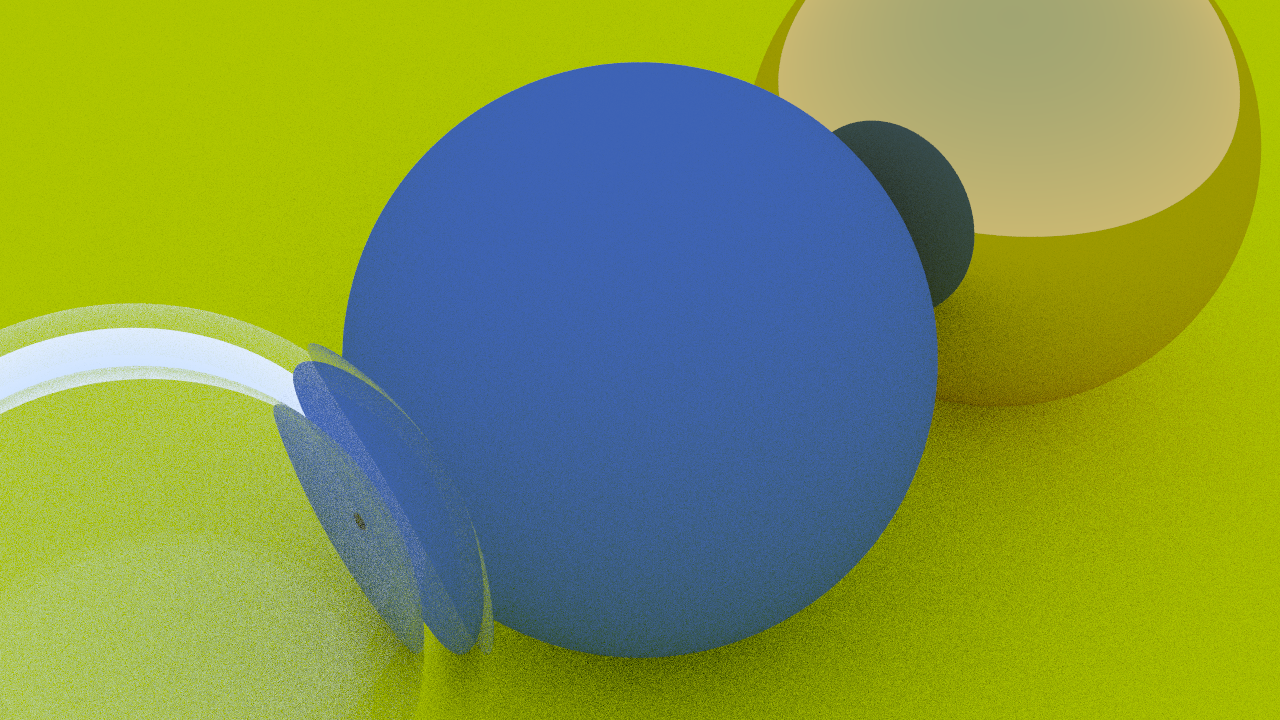
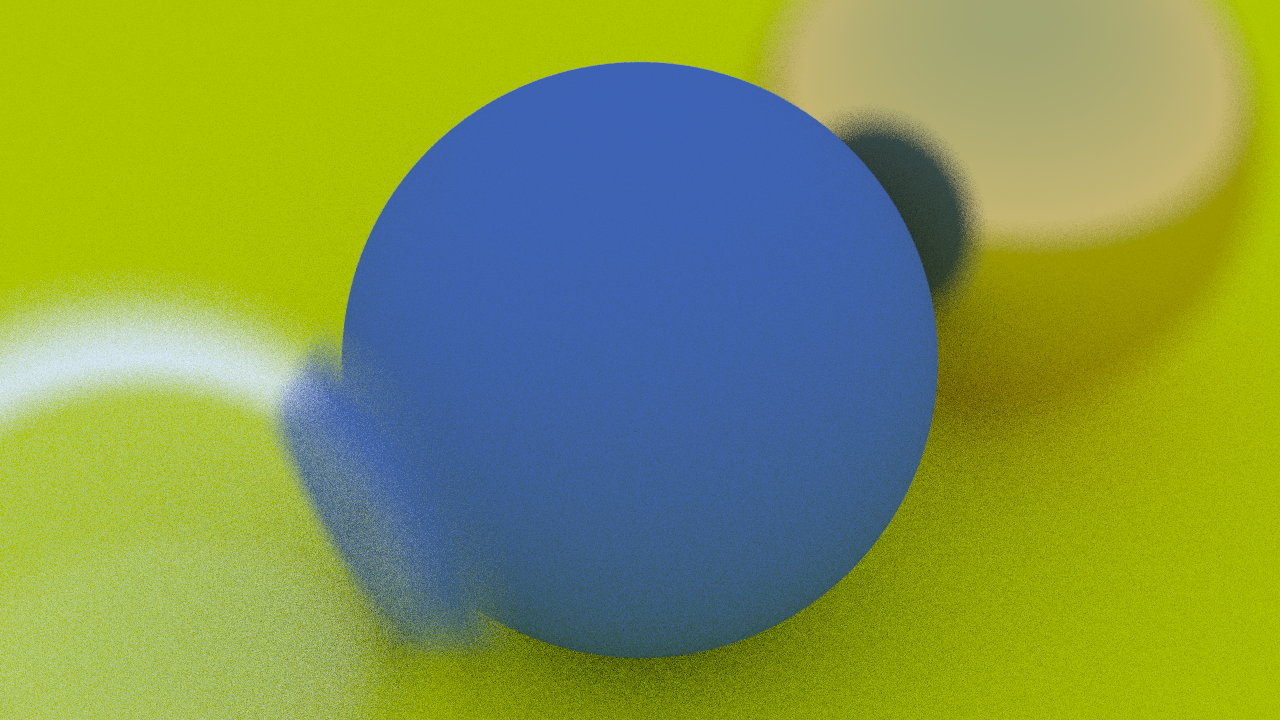
Added depth of field

diff --git a/Camera.h b/Camera.h
@@ -18,6 +18,9 @@ public:
 	Point3 lookat = Point3(0, 0, 0);		// Point camera is looking at
 	Vec3   vup = Vec3(0, 1, 0);				// Camera-relative "up" direction
 
+	double defocusAngle = 0;				// Variation angle of rays through each pixel
+	double focusDist = 10;					// Distance from camera lookfrom point to plane of perfect focus
+
 	Camera(shared_ptr<Texture> _outputTexture) : outputTexture(_outputTexture) { }
 
 	void Render(const Hittable& world) {
@@ -63,7 +66,9 @@ private:
 	Point3 pixelTopLeft;
 	Vec3   pixelDeltaU;
 	Vec3   pixelDeltaV;
-	Vec3   u, v, w;        // Camera frame basis vectors
+	Vec3   u, v, w;			// Camera frame basis vectors
+	Vec3   defocusDiskU;	// Defocus disk horizontal radius
+	Vec3   defocusDiskV;	// Defocus disk vertical radius
 
 	shared_ptr<Texture> outputTexture;
 
@@ -74,12 +79,11 @@ private:
 		position = lookfrom;
 		
 		double aspect_ratio = imageWidth / imageHeight;
-		double focalLength = (lookfrom - lookat).length();
 
 		// Determine viewport dimensions.
 		double theta = Deg2Rad(vfov);
 		double h = tan(theta / 2);
-		double viewportHeight = 2 * h * focalLength;
+		double viewportHeight = 2 * h * focusDist;
 		double viewportWidth = viewportHeight * aspect_ratio;
 
 		// Calculate the u,v,w unit basis vectors for the camera coordinate frame.
@@ -96,17 +100,24 @@ private:
 		pixelDeltaV = viewportV / imageHeight;
 
 		// Calculate the location of the upper left pixel.
-		Vec3 viewportTopLeft = position - (focalLength * w) - (viewportU / 2) - (viewportV / 2);
+		Vec3 viewportTopLeft = position - (focusDist * w) - (viewportU / 2) - (viewportV / 2);
 		pixelTopLeft = viewportTopLeft + 0.5 * (pixelDeltaU + pixelDeltaV);
+
+		// Calculate the camera defocus disk basis vectors.
+		auto defocusRadius = focusDist * tan(Deg2Rad(defocusAngle / 2));
+		defocusDiskU = u * defocusRadius;
+		defocusDiskV = v * defocusRadius;
 	}
 
 	Ray GetRay(int i, int j) const {
 		// Get a randomly sampled camera ray for the pixel at location i,j.
+		// Jitters pixelCenter for MSAA
+		// Jitters rayOrigin for depth-of-field
 
 		Vec3 pixelCenter = pixelTopLeft + (i * pixelDeltaU) + (j * pixelDeltaV);
 		Vec3 pixelSample = pixelCenter + pixelRandomOffset();
 
-		Point3 rayOrigin = position;
+		Point3 rayOrigin = (defocusAngle <= 0) ? position : defocusDiskSample();
 		Vec3 rayDirection = pixelSample - rayOrigin;
 
 		return Ray(rayOrigin, rayDirection);
@@ -117,6 +128,12 @@ private:
 		double px = RandomRange(-0.5, 0.5);
 		double py = RandomRange(-0.5, 0.5);
 		return (px * pixelDeltaU) + (py * pixelDeltaV);
+	}
+
+	Point3 defocusDiskSample() const {
+		// Returns a random point in the camera defocus disk.
+		auto p = random_in_unit_disk();
+		return position + (p[0] * defocusDiskU) + (p[1] * defocusDiskV);
 	}
 
 	Color RayColor(const Ray& r, int depth, const Hittable& world) {

diff --git a/main.cpp b/main.cpp
@@ -51,11 +51,15 @@ int main()
 
 	Camera camera(outputTexture);
 
-	// camera positioning
-	camera.vfov = 20;
+	// camera transform
 	camera.lookfrom = Point3(-2, 2, 1);
 	camera.lookat = Point3(0, 0, -1);
 	camera.vup = Vec3(0, 1, 0);
+
+	// lens settings
+	camera.vfov = 20;
+	camera.defocusAngle = 10.0;
+	camera.focusDist = 3.4;
 	
 	// render settings
 	camera.samplesPerPixel = 20;

diff --git a/Vec3.h b/Vec3.h
@@ -139,6 +139,15 @@ inline Vec3 refract(const Vec3& uv, const Vec3& n, double etai_over_etat) {
     return r_out_perp + r_out_parallel;
 }
 
+inline Vec3 random_in_unit_disk() {
+    Vec3 p;
+
+    do { p = Vec3(RandomRange(-1, 1), RandomRange(-1, 1), 0); } 
+    while (p.lengthSquared() > 1);
+
+    return p;
+}
+
 inline Vec3 RandomPointInsideUnitSphere() {
     Vec3 p;
 
